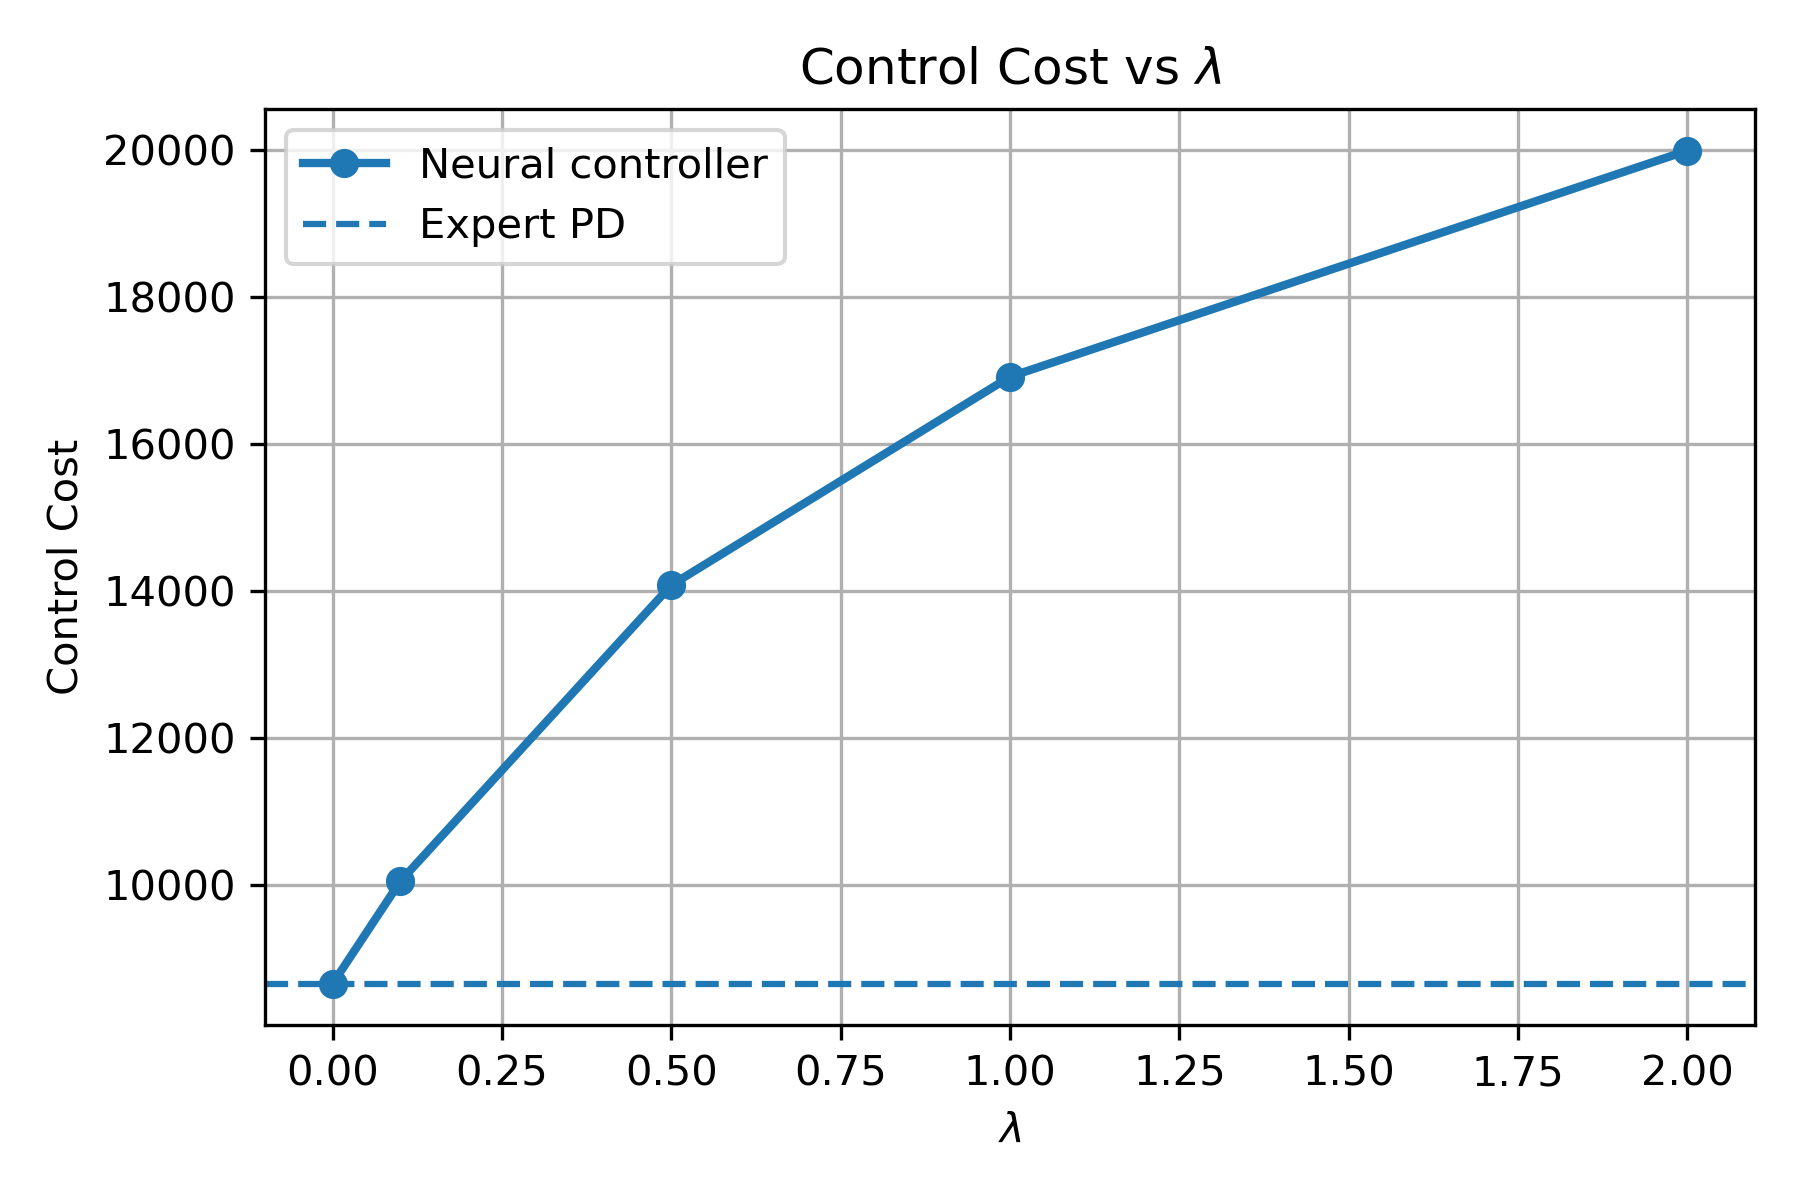
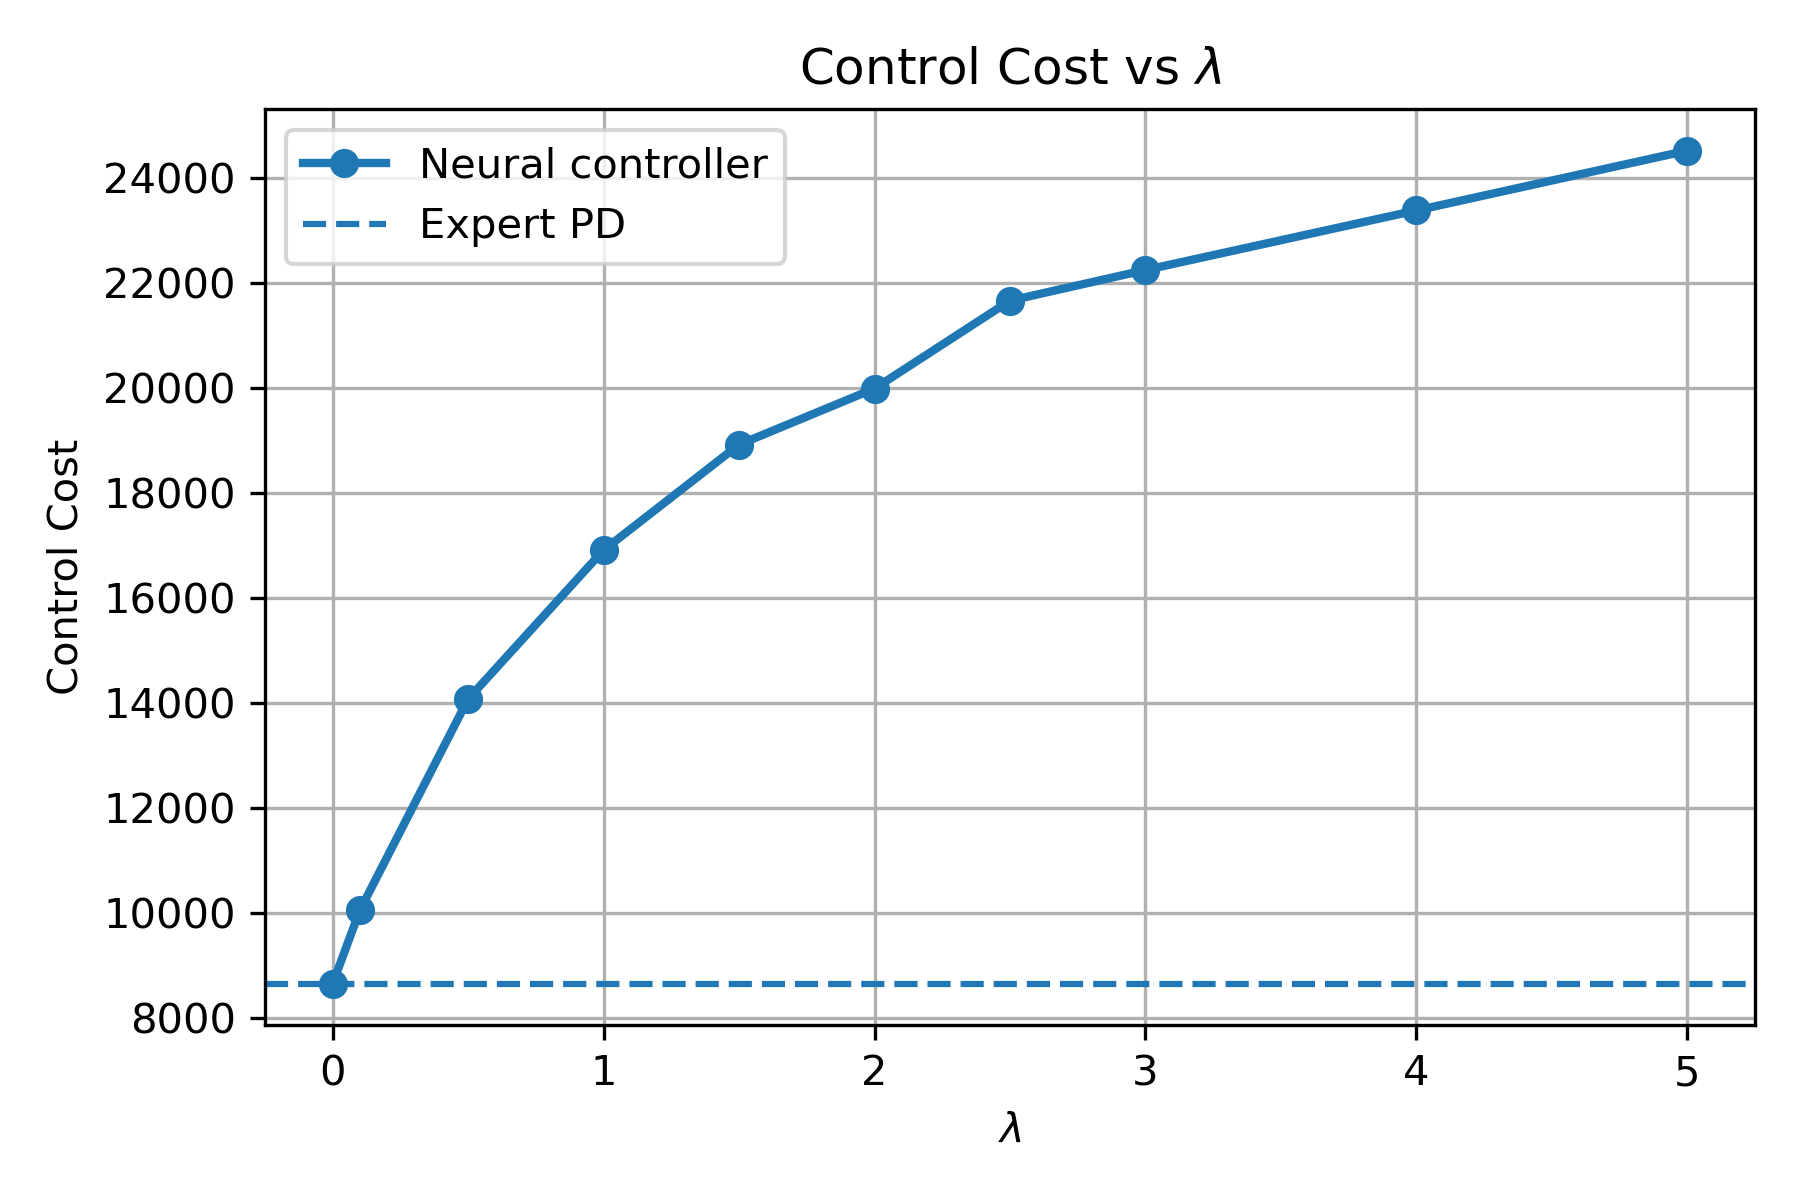
fixed physics residual

diff --git a/oscillator/results/results_analysis.py b/oscillator/results/results_analysis.py
@@ -2,7 +2,7 @@ import re
 import pandas as pd
 import matplotlib.pyplot as plt
 
-csv_file= 'eval_results_2026_07_02_17_01_.csv'
+csv_file= 'eval_results_2026_07_03_12_01_.csv'
 
 df = pd.read_csv(f"oscillator/results/{csv_file}")
 
@@ -25,12 +25,11 @@ def extract_lambda(name):
     if name == "Expert PD":
         return None
 
-    match = re.search(r"lambda=([0-9.]+)", name)
+    match = re.search(r"lambda[_=](\d+(?:\.\d+)?)", name)
+    if not match:
+        raise ValueError(f"No lambda found in: {name}")
 
-    if match:
-        return float(match.group(1))
-
-    return None
+    return float(match.group(1))
 
 
 df["lambda"] = df["model"].apply(extract_lambda)

diff --git a/oscillator/train.py b/oscillator/train.py
@@ -64,7 +64,8 @@ def pinn_loss(pred_action,true_action,x,xddot,m=1.0,k=10.0,lambd=1.0):
     pred_action = pred_action.view(-1)
 
     # Physics residual
-    residual = m * xddot + k * x - pred_action
+    # old and bad residual: residual = m * xddot + k * x - pred_action
+    residual = xddot - (pred_action - k * x) / m
 
     physics_loss = torch.mean(residual**2)
 
